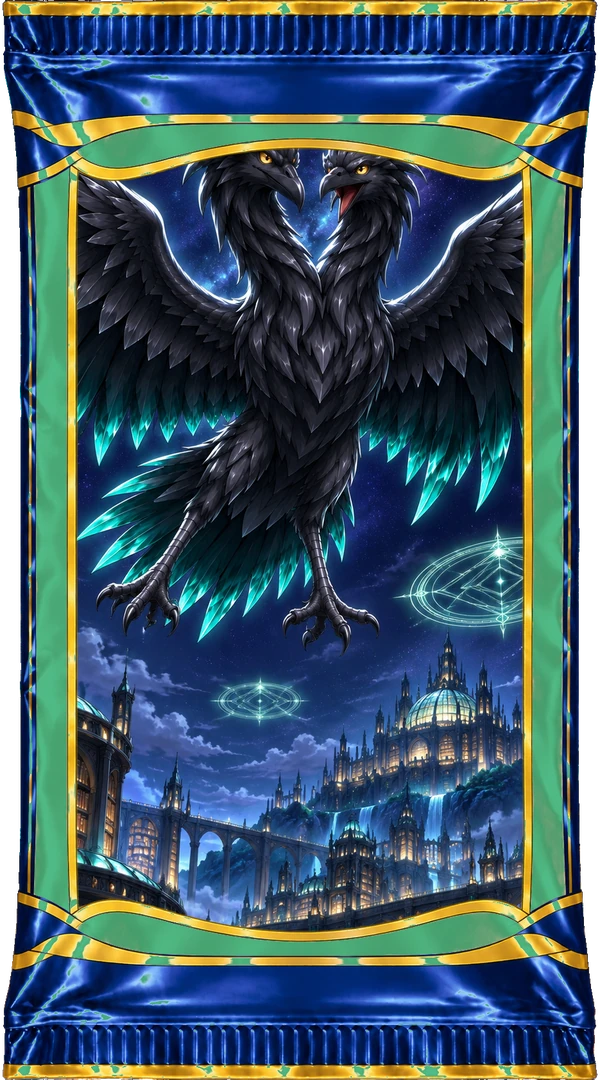
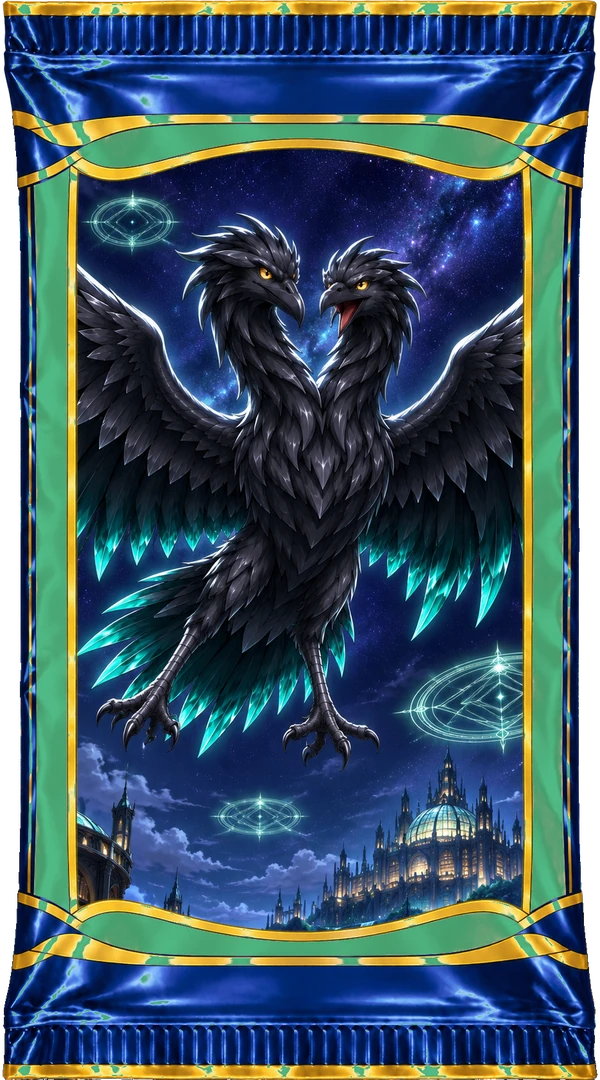
BM の直し2：フギンのパックの窓で絵を下げて2つの頭が入るように
- 絵は描き直さず、パックの窓の中で 180px 下げた（tools/art/huginn_assets.py の PACK_SHIFT）。販売機の窓は前から入っている
- まだガチャに並んでいない子のパック・販売機の窓を撮る道具（tools/e2e/bm_pack_window_shot.cjs）。ほかの5体は顔が切れていない

Claude-Session: https://claude.ai/code/session_01GPUK2yZCjVyLB1vSTD4zn1

diff --git a/tools/art/huginn_assets.py b/tools/art/huginn_assets.py
@@ -22,6 +22,7 @@ BUILD = os.path.join(ROOT, 'design-parts/bm-huginn-20261106/build')
 COLOR = '#1E6B45'
 LOGO_HEIGHT = {'ja': 174, 'en': 160}
 LOGO_ANCHOR = (38, 53)
+PACK_SHIFT = int(os.environ.get('PACK_SHIFT', 180))  # パックの窓で絵を下げる量（型の px。BM の直し）
 HAZE = 2  # この透明度以下のもやは透明に（ロゴ）
 
 sys.path.insert(0, os.path.join(ROOT, 'tools/design'))
@@ -52,7 +53,11 @@ def official() -> None:
 def pack() -> None:
     tpl = np.array(Image.open(os.path.join(ROOT, 'design-parts/gacha-20261029/pack_template_symmetric.png')).convert('RGBA'))
     window = Image.open(os.path.join(SRC, 'pack_art_huginn.png')).convert('RGBA')
-    art = pack_tint.cover(window, (tpl.shape[1], tpl.shape[0]))
+    art0 = pack_tint.cover(window, (tpl.shape[1], tpl.shape[0]))
+    # 2026-11-06 BM の直し（ユーザー指示）：ほかの子と同じ合わせ方だと2つの頭が窓の上の飾りに隠れるので、絵を PACK_SHIFT px 下げて上の方を見せる
+    # （絵は描き直さない。下がった分の上のすきまは窓の外の飾りの裏になる。下のはしは窓の外に出る）
+    art = Image.new('RGBA', art0.size, (0, 0, 0, 0))
+    art.alpha_composite(art0, (0, PACK_SHIFT))
     frame = Image.fromarray(pack_tint.tint_template(tpl, COLOR), 'RGBA')
     out = art.copy()
     out.alpha_composite(frame)

diff --git a/docs/bm-huginn-20261106.md b/docs/bm-huginn-20261106.md
@@ -82,3 +82,11 @@
   - 手札でフギン・ハクラン・フルーネ・フォルン・ウズリオを並べた写真で確かめた：深い緑・青緑・黄緑・オリーブ・青で見分けられる。いちばん近いのは今もハクラン（青緑）だが、緑と青緑の違いが出た
 - **ちえのささやき：山札が0枚なら使えない**（暗くして選べない。理由「山札がありません」）
 - テスト 1619 件・セーブ version 36 のまま
+
+## BM の直し2（2026-11-06 ユーザーの返事）
+
+- 決定：枠の色 #1E6B45・ちえのささやき・パックの縁の色（深い緑）は今のままでよい
+- **フギンのパックの窓で2つの頭が上の飾りに隠れていた** → 絵は描き直さず、窓の中で絵を 180px（型の px）下げて上の方を見せた（`tools/art/huginn_assets.py` の `PACK_SHIFT`）。
+  販売機の窓（`gacha_panel_build.py`）は前から2つの頭が入っているので変えていない
+- まだガチャに並んでいない子のパック・販売機の窓をゲームの画面で並べて確かめた（`tools/e2e/bm_pack_window_shot.cjs`）：
+  クロシオ・ロウガ・クヨウ・ラディエル・ギアロスは、パックも窓も顔が切れていない（直していない）。**タイラントはガチャのシリーズが無く、パック・窓の絵もまだ無い**

diff --git a/docs/handoff.md b/docs/handoff.md
@@ -1,8 +1,13 @@
-# 引き継ぎメモ（2026-11-06 夜：BM の直しのあと。main＝BM の直しまで・**未公開**。公開済みは 4331e1b〔指示書 BJ まで〕）
+# 引き継ぎメモ（2026-11-06 夜：BM の直し2のあと。main＝BM の直し2まで・**未公開**。公開済みは 4331e1b〔指示書 BJ まで〕）
 
 新しいセッションで読むのは `CLAUDE.md` とこのファイルだけ。他の資料は必要になったときに1つずつ読む。
 
 ## 0. 次のセッションへ
+
+### いまの状態（2026-11-06 夜 BM の直し2のあと）
+
+- フギンのパックの窓で絵を下げて2つの頭が入るようにした（`PACK_SHIFT` 180）。ほかの子（クロシオ・ロウガ・クヨウ・ラディエル・ギアロス）のパック・販売機の窓は顔が切れていない。タイラントはパック・窓がまだ無い。
+  main に入れた（公開はしていない）。写真の道具 `tools/e2e/bm_pack_window_shot.cjs`。**返事待ちは無い**
 
 ### いまの状態（2026-11-06 夜 BM の直しのあと）
 
